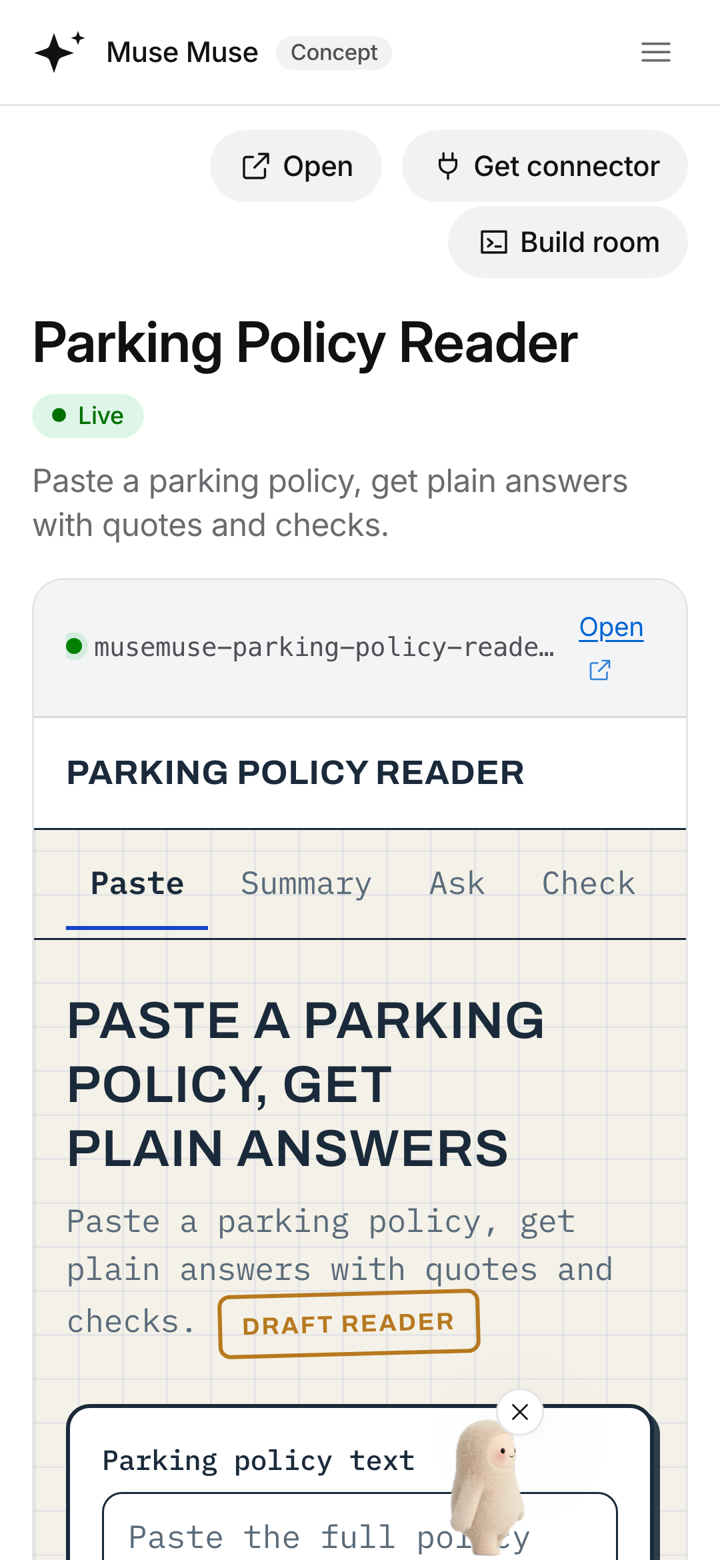
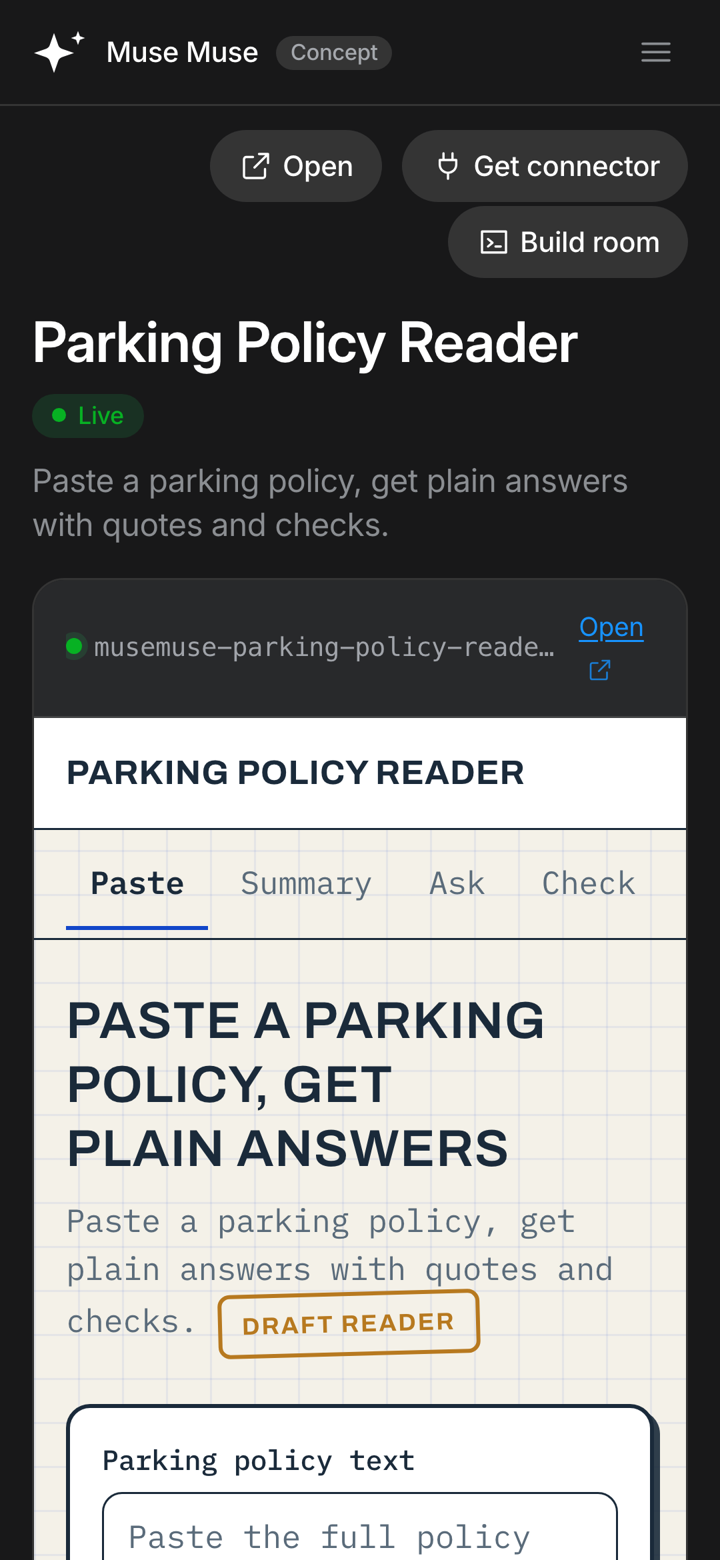
Log: phone audit after the follow-up deploy, with after shots

diff --git a/docs/BUILD_LOG.md b/docs/BUILD_LOG.md
@@ -3484,3 +3484,8 @@ and dark: no sideways scroll or widened page on any audited page, nothing under 
 - /gallery's search, filter and size buttons (32 px) and the build room's "Show thinking" (32 px) get 44 px tall tap areas.
 
 After: `docs/log/shots/2026-11-03/phone-after-*.png`.
+
+**After the follow-up deploy (7c8a16bc, dpl_6jXAihCPcC7iw6nhT2wDYR1iD2Vj):** Muse sampled every 0.7 s on Make, both
+product pages, the build room, /learn, /private, /models, /docs/quickstart and /gallery at 390 light and 360 dark: never
+shown over a control or a live preview, and showing over text and open space on most of them. The new tap areas hit
+their buttons.
